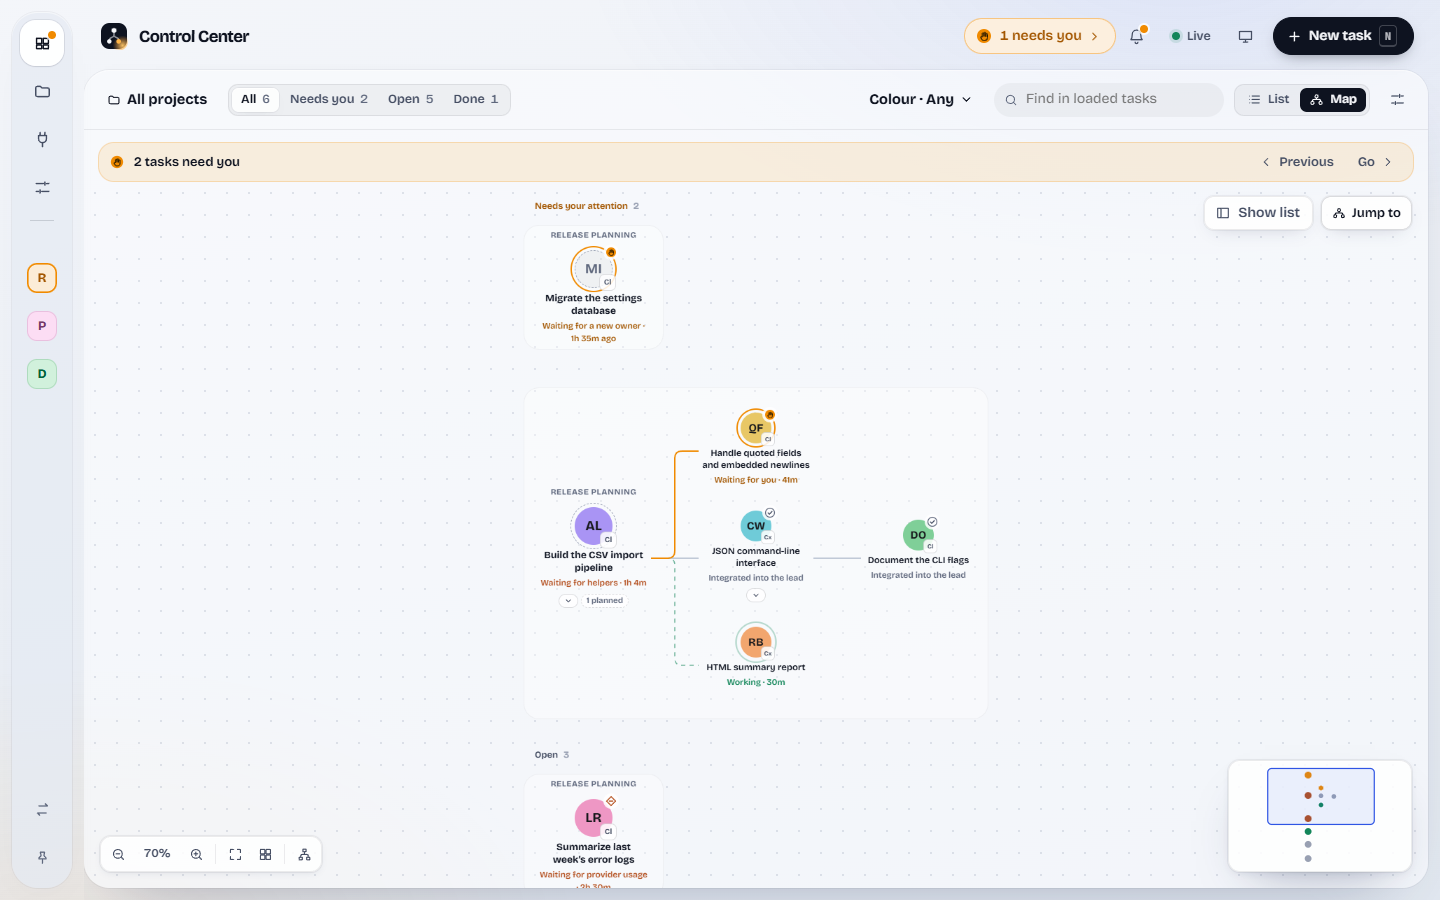
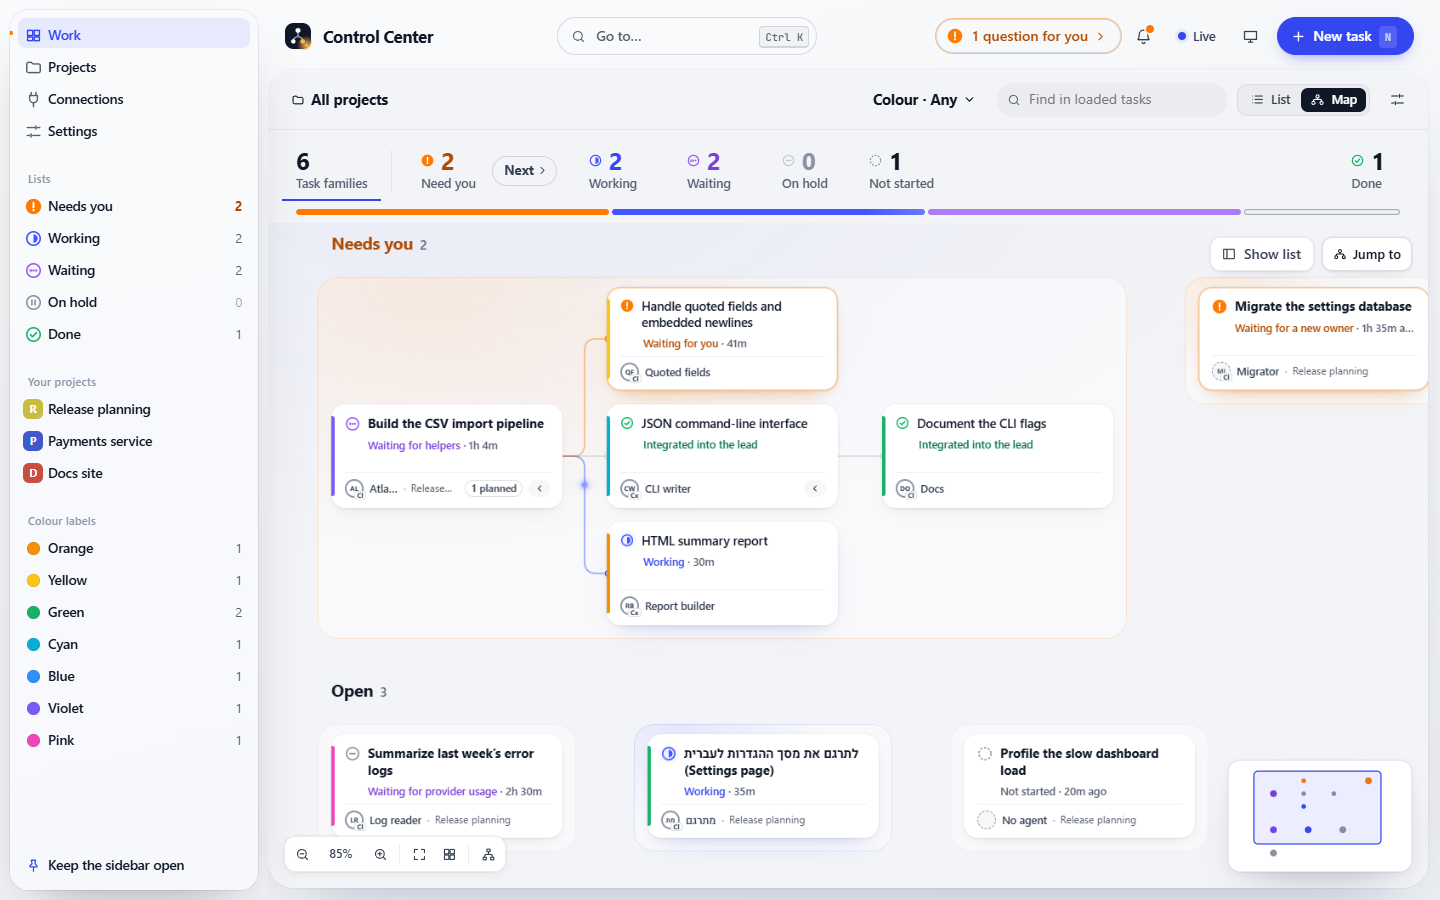
docs(lumen): 0.12.0, README screenshots and DESIGN.md for "Living light"
- Desktop version 0.12.0 (built, installed and verified: data created by 0.11.1 is still there
  after the upgrade).
- README screenshots taken from the built interface with synthetic data: the List with 120
  families, the Map left to right, the task page in the dark appearance.
- DESIGN.md describes the Map's trays, lines, light and motion timings.

diff --git a/DESIGN.md b/DESIGN.md
@@ -74,7 +74,7 @@ Rules
 ## Living light (the signature)
 
 - A gleam of light travels round the mark of every task whose agent is recorded running.
-- On the Map, a ring of light turns round a working agent's face.
+- On the Map, light travels along every line that leads to an agent at work, and a working family's tray is lit from within (warm amber while it needs the person).
 - In the Now bar, a sheen crosses the working share of the workspace.
 - Nothing else moves by itself. Nothing is lit unless the backend recorded the agent running. Reduced motion keeps every light still.
 
@@ -102,7 +102,7 @@ All marks are 16 px circles drawn in `components/identity.jsx` (`StatusBead`; `l
 - **Work header:** project, colour filter, search, List / Map.
 - **Now strip:** counts of loaded tasks, each a toggle that scopes the page, with Next (A) to step through what needs you. Under it one bar shows open work in proportion.
 - **List:** Needs you first, then open work, then history folded by day. A family is one row with its progress bar and "finished/total"; helpers open beneath with tree guides; a question carries its Reply button in the row.
-- **Map:** the same families as a hierarchy on a clean canvas: what needs the person in one band, open work as compact cards, history quieter. Same marks, bars and tags as the List.
+- **Map:** the same families as a delegation tree, left to right (top to bottom is one click away). Every task is a card in the task page's material: mark, title, state in words, agent, project and the family's progress. Each family sits on its own soft tray, families sit side by side in rows, and bands follow the List (Needs you, Open, History). Lines meet cards at small ports; the line to a helper that needs the person is amber, the line to a working helper is ultramarine and carries light.
 - **Quiet state:** with nothing filtered and nothing open: "Nothing is running or waiting for you right now".
 
 ## Typography
@@ -111,7 +111,7 @@ The platform's text face (Segoe UI Variable on Windows, SF Pro on macOS) for its
 
 ## Motion
 
-Critically damped springs (`--a-spring`). Rows that move because of a live change glide from where they were while the selected row stays still; progress segments animate their share. The living light is the only ambient motion, and only for real activity.
+Critically damped springs (`--a-spring`) for what moves and a confident deceleration (`cubic-bezier(0.16, 1, 0.3, 1)`) for what arrives; exits are faster than entrances. Rows that move because of a live change glide from where they were while the selected row stays still; progress segments animate their share. On the Map, lines draw themselves from the lead, a branch that opens grows its cards out of the lead (36 ms apart, 560 ms), cards a change moves glide, and a branch that closes draws its cards back in (220 ms). The living light is the only ambient motion, and only for real activity. Reduced motion: new cards only fade in and nothing travels.
 
 ## Do
 

diff --git a/README.md b/README.md
@@ -9,7 +9,7 @@ its questions, redirect it or stop it, and keeps a durable record of everything 
 agent can bring in helper agents for parts of the work; the backend decides what may start, and every
 helper's result comes back through conflict-checked integration.
 
-![Work in the Control Center: task families grouped by what they need, with agents, status and time](docs/images/lumen/work.png)
+![Work in the Control Center: 120 task families grouped by what they need, with smart lists and colour labels in the sidebar](docs/images/lumen/work.png)
 
 <table>
   <tr>
@@ -17,7 +17,7 @@ helper's result comes back through conflict-checked integration.
     <td width="50%"><img src="docs/images/lumen/task.png" alt="A task page in the dark appearance: request, progress, responsible agent"></td>
   </tr>
   <tr>
-    <td><sub>The Work Map, left to right: who works on what, and what waits for whom.</sub></td>
+    <td><sub>The Work Map, left to right: each family on its own tray, light along the lines to working agents.</sub></td>
     <td><sub>A task page in the dark appearance.</sub></td>
   </tr>
 </table>
@@ -53,7 +53,7 @@ No release is published yet; the installer is built from this repository.
 .\desktop\build.ps1
 ```
 
-Then run `desktop\out\AI-Agent-Control-Center-Setup-0.9.1.exe`. It installs for your Windows user
+Then run `desktop\out\AI-Agent-Control-Center-Setup-0.12.0.exe`. It installs for your Windows user
 (no administrator rights) and opens straight into the app; there is nothing else to start. The
 installer is not code-signed, so SmartScreen asks before the first run. To look around without a
 project or any model usage, start the app with `--demo`.
